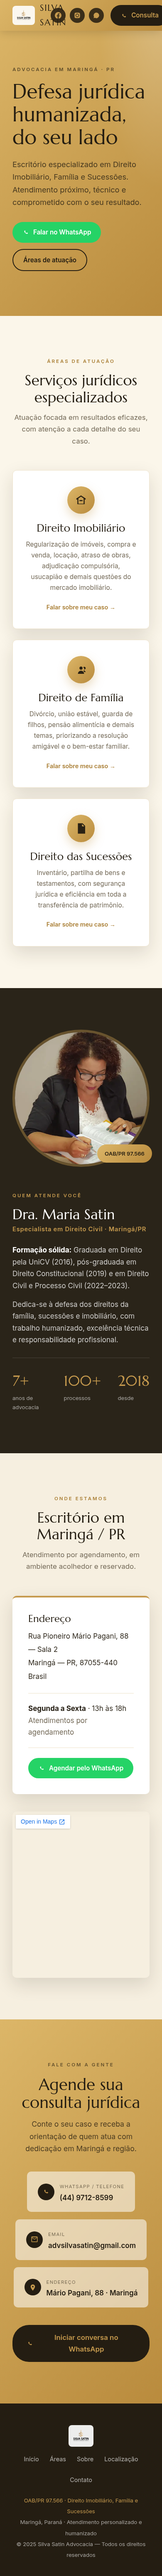
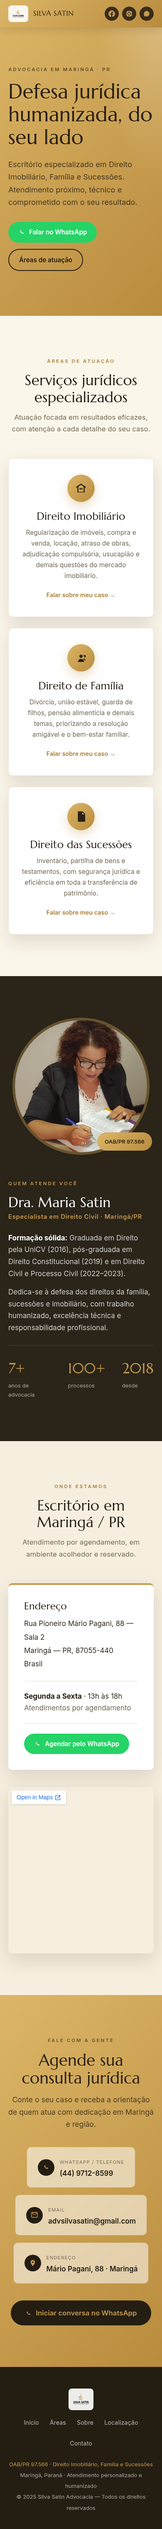
Fix v3 mobile header: remove redundant Consulta button, tighten spacing
Header overflowed on mobile. Removed the header WhatsApp CTA (duplicate of
the social WhatsApp icon and floating button) and added responsive header
rules (<560px: smaller brand/socials; <360px: hide wordmark).

diff --git a/redesign-preview/3-contraste-quente.html b/redesign-preview/3-contraste-quente.html
@@ -142,6 +142,18 @@
         .hero-figure, .menu { display: none; }
         .cards { grid-template-columns: 1fr; }
       }
+      @media (max-width: 560px) {
+        .nav { height: 66px; }
+        .brand img { height: 40px; }
+        .brand .bname { font-size: 1.05rem; letter-spacing: 0.04em; }
+        .nav-side { gap: 10px; }
+        .socials { gap: 8px; }
+        .socials a { width: 34px; height: 34px; }
+        .wrap { padding: 0 20px; }
+      }
+      @media (max-width: 360px) {
+        .brand .bname { display: none; }
+      }
     </style>
   </head>
   <body>
@@ -155,7 +167,6 @@
             <a href="#" aria-label="Instagram"><svg viewBox="0 0 24 24"><path d="M12 2.2c3.2 0 3.6 0 4.9.1 1.2.1 1.8.3 2.2.4.6.2 1 .5 1.4.9.4.4.7.8.9 1.4.2.4.4 1 .4 2.2.1 1.3.1 1.7.1 4.9s0 3.6-.1 4.9c-.1 1.2-.3 1.8-.4 2.2-.2.6-.5 1-.9 1.4-.4.4-.8.7-1.4.9-.4.2-1 .4-2.2.4-1.3.1-1.7.1-4.9.1s-3.6 0-4.9-.1c-1.2-.1-1.8-.3-2.2-.4-.6-.2-1-.5-1.4-.9-.4-.4-.7-.8-.9-1.4-.2-.4-.4-1-.4-2.2C2.2 15.6 2.2 15.2 2.2 12s0-3.6.1-4.9c.1-1.2.3-1.8.4-2.2.2-.6.5-1 .9-1.4.4-.4.8-.7 1.4-.9.4-.2 1-.4 2.2-.4C8.4 2.2 8.8 2.2 12 2.2zm0 3.5A6.3 6.3 0 1018.3 12 6.3 6.3 0 0012 5.7zm0 10.4A4.1 4.1 0 1116.1 12 4.1 4.1 0 0112 16.1zm6.5-10.9a1.5 1.5 0 11-1.5-1.5 1.5 1.5 0 011.5 1.5z"/></svg></a>
             <a href="https://wa.me/554497128599" aria-label="WhatsApp"><svg viewBox="0 0 24 24"><path d="M17.5 14.4c-.3-.1-1.8-.9-2-1-.3-.1-.5-.1-.7.1-.2.3-.7.9-.9 1.1-.2.2-.3.2-.6.1-.3-.1-1.2-.5-2.3-1.4-.9-.8-1.4-1.7-1.6-2-.2-.3 0-.5.1-.6l.5-.5c.1-.2.2-.3.3-.5.1-.2 0-.4 0-.5s-.7-1.6-.9-2.2c-.2-.6-.5-.5-.7-.5h-.6c-.2 0-.5.1-.8.4-.3.3-1 1-1 2.5s1.1 2.9 1.2 3.1c.2.2 2.1 3.2 5.1 4.5.7.3 1.3.5 1.7.6.7.2 1.4.2 1.9.1.6-.1 1.8-.7 2-1.4.3-.7.3-1.3.2-1.4-.1-.1-.3-.2-.6-.3zM12 2a10 10 0 00-8.6 15L2 22l5.1-1.3A10 10 0 1012 2z"/></svg></a>
           </div>
-          <a href="https://wa.me/554497128599" class="btn btn-dark"><svg viewBox="0 0 24 24"><path d="M17.5 14.4c-.3-.1-1.8-.9-2-1-.3-.1-.5-.1-.7.1-.2.3-.7.9-.9 1.1-.2.2-.3.2-.6.1-.3-.1-1.2-.5-2.3-1.4-.9-.8-1.4-1.7-1.6-2-.2-.3 0-.5.1-.6l.5-.5c.1-.2.2-.3.3-.5.1-.2 0-.4 0-.5s-.7-1.6-.9-2.2c-.2-.6-.5-.5-.7-.5h-.6c-.2 0-.5.1-.8.4-.3.3-1 1-1 2.5s1.1 2.9 1.2 3.1c.2.2 2.1 3.2 5.1 4.5.7.3 1.3.5 1.7.6.7.2 1.4.2 1.9.1.6-.1 1.8-.7 2-1.4.3-.7.3-1.3.2-1.4-.1-.1-.3-.2-.6-.3z"/></svg>Consulta</a>
         </div>
       </div>
     </header>
